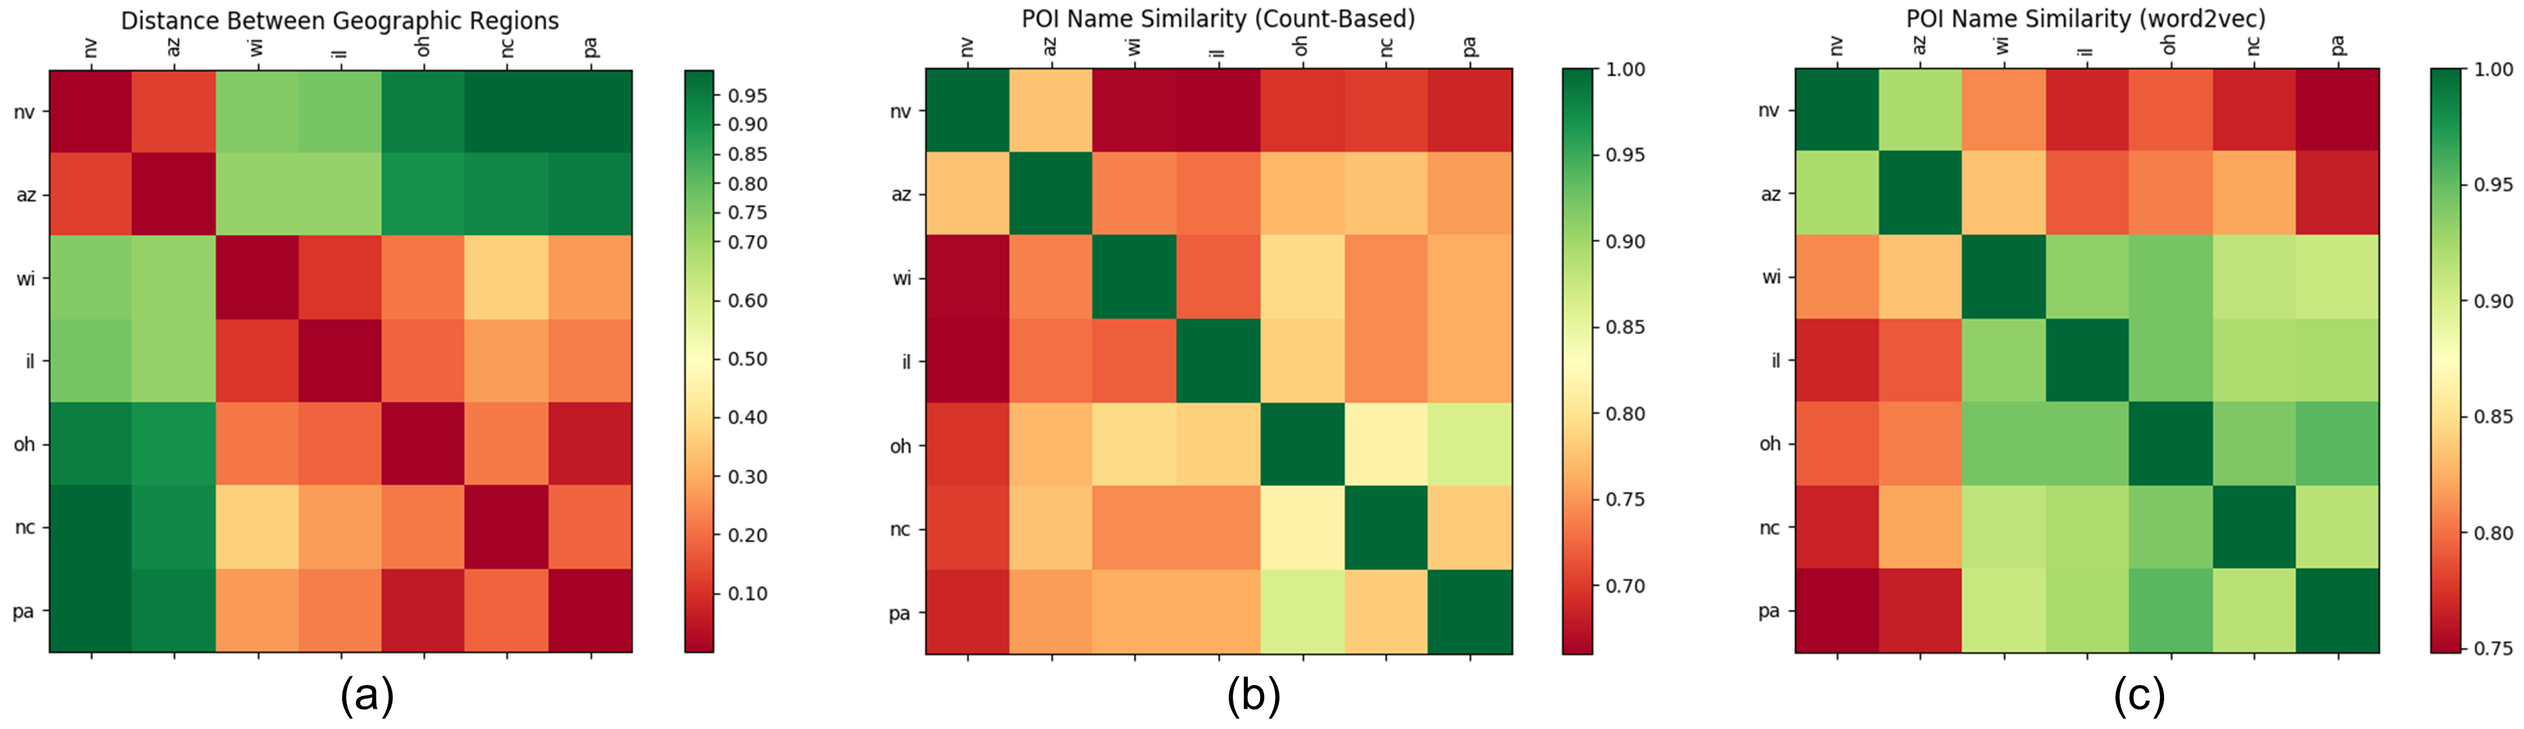
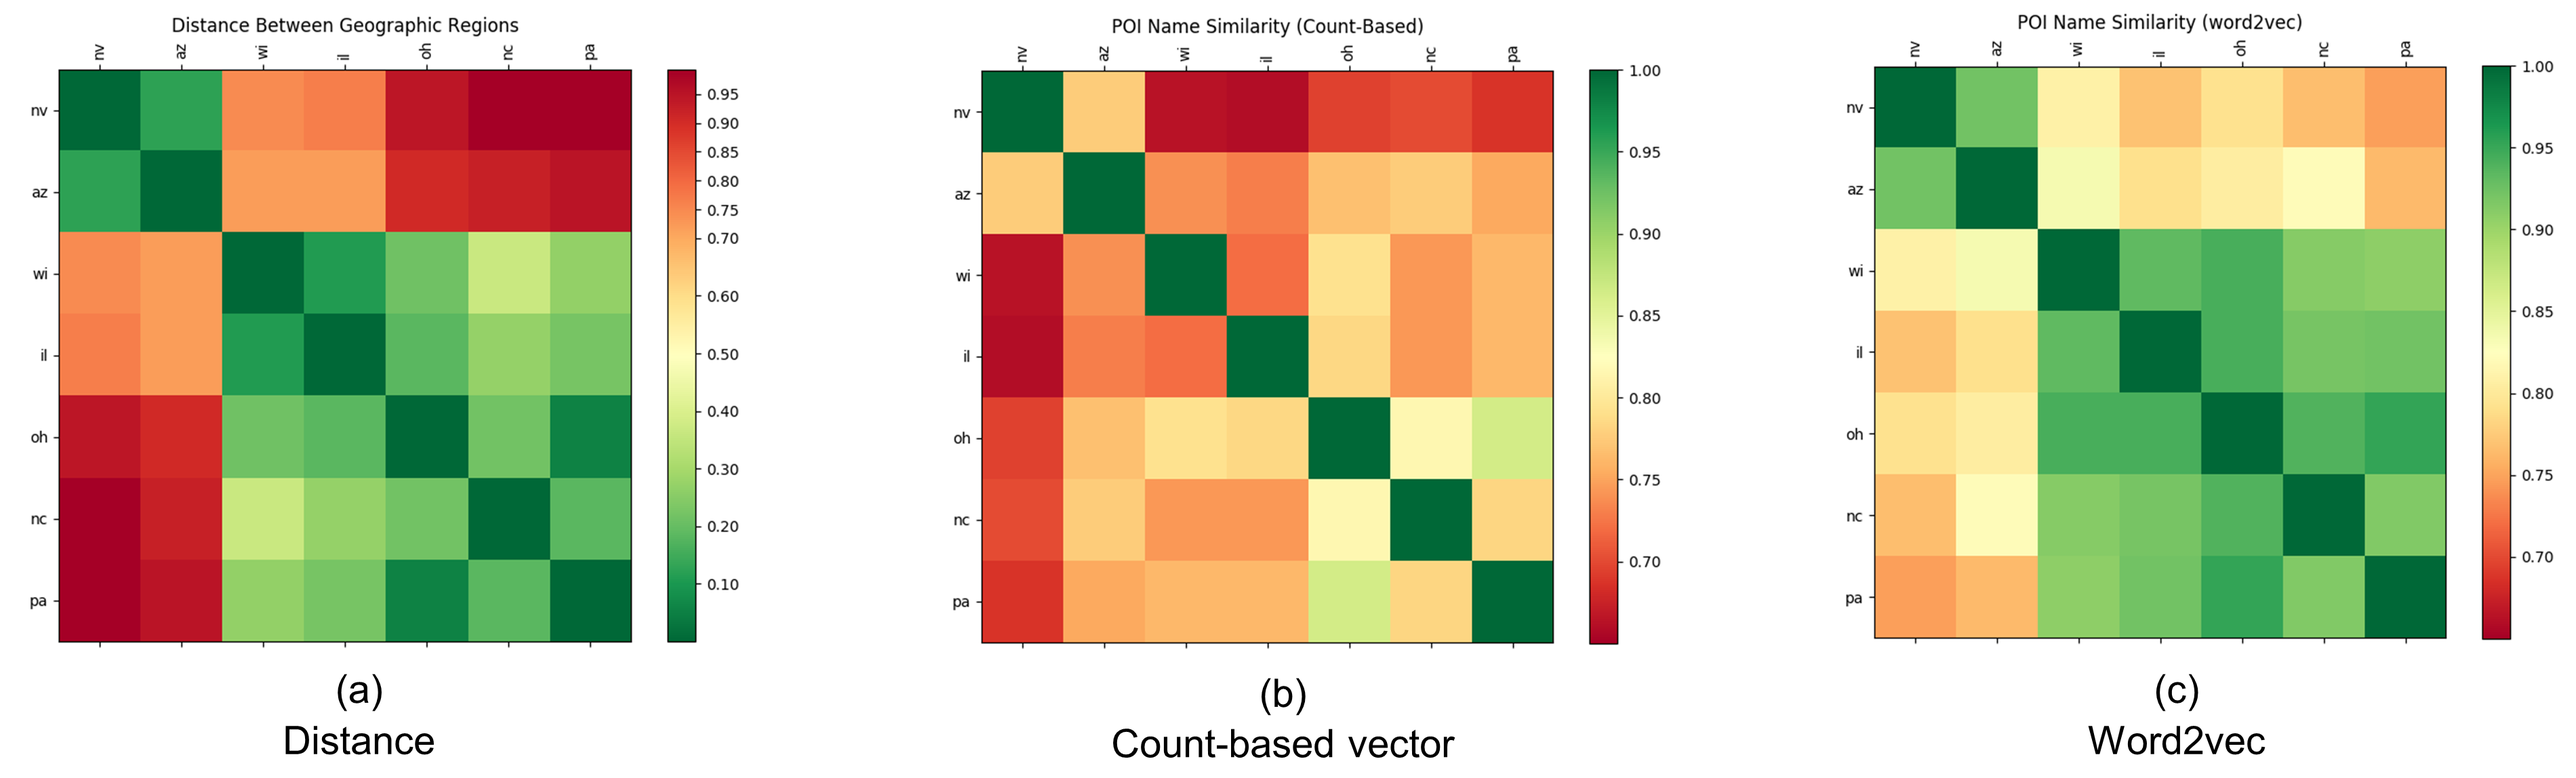
POI_Name

diff --git a/src/similarity_matrix.py b/src/similarity_matrix.py
@@ -19,8 +19,8 @@ sys.setdefaultencoding('utf8')
 # This is the core function for plotting out similarity matrix
 def plot_similarity_matrix(matrix_data, labels, plot_title):
     fig, ax = plt.subplots(figsize=(20,20))
-    cmap = cm.get_cmap('RdYlGn')
-    cax = ax.matshow(matrix_data, interpolation='nearest',cmap=cmap)
+    cmap = cm.get_cmap('RdYlGn')   #'RdYlGn_r'
+    cax = ax.matshow(matrix_data, interpolation='nearest',cmap=cmap)  #, vmin=0.65, vmax=1.0)
     #ax.grid(True)
     plt.title(plot_title)
     plt.xticks(range(7), labels, rotation=90);
@@ -28,7 +28,7 @@ def plot_similarity_matrix(matrix_data, labels, plot_title):
     fig.colorbar(cax, ticks=[0.1, 0.2, 0.3, 0.4, 0.5, 0.6, 0.7, .75,.8,.85,.90,.95,1])
     plt.show()
     
-    #fig.savefig('embeddingSimilarity.png',dpi=300)
+    #fig.savefig('vectorCount_matrix.png',dpi=300)
     
     
 
@@ -137,6 +137,6 @@ def geo_distance_similarity_metro():
 
 #main function starts
 if __name__ == "__main__":
-    geo_distance_similarity_metro()
-    #word2vec_similarity_metro()
+    #geo_distance_similarity_metro()
+    word2vec_similarity_metro()
     
